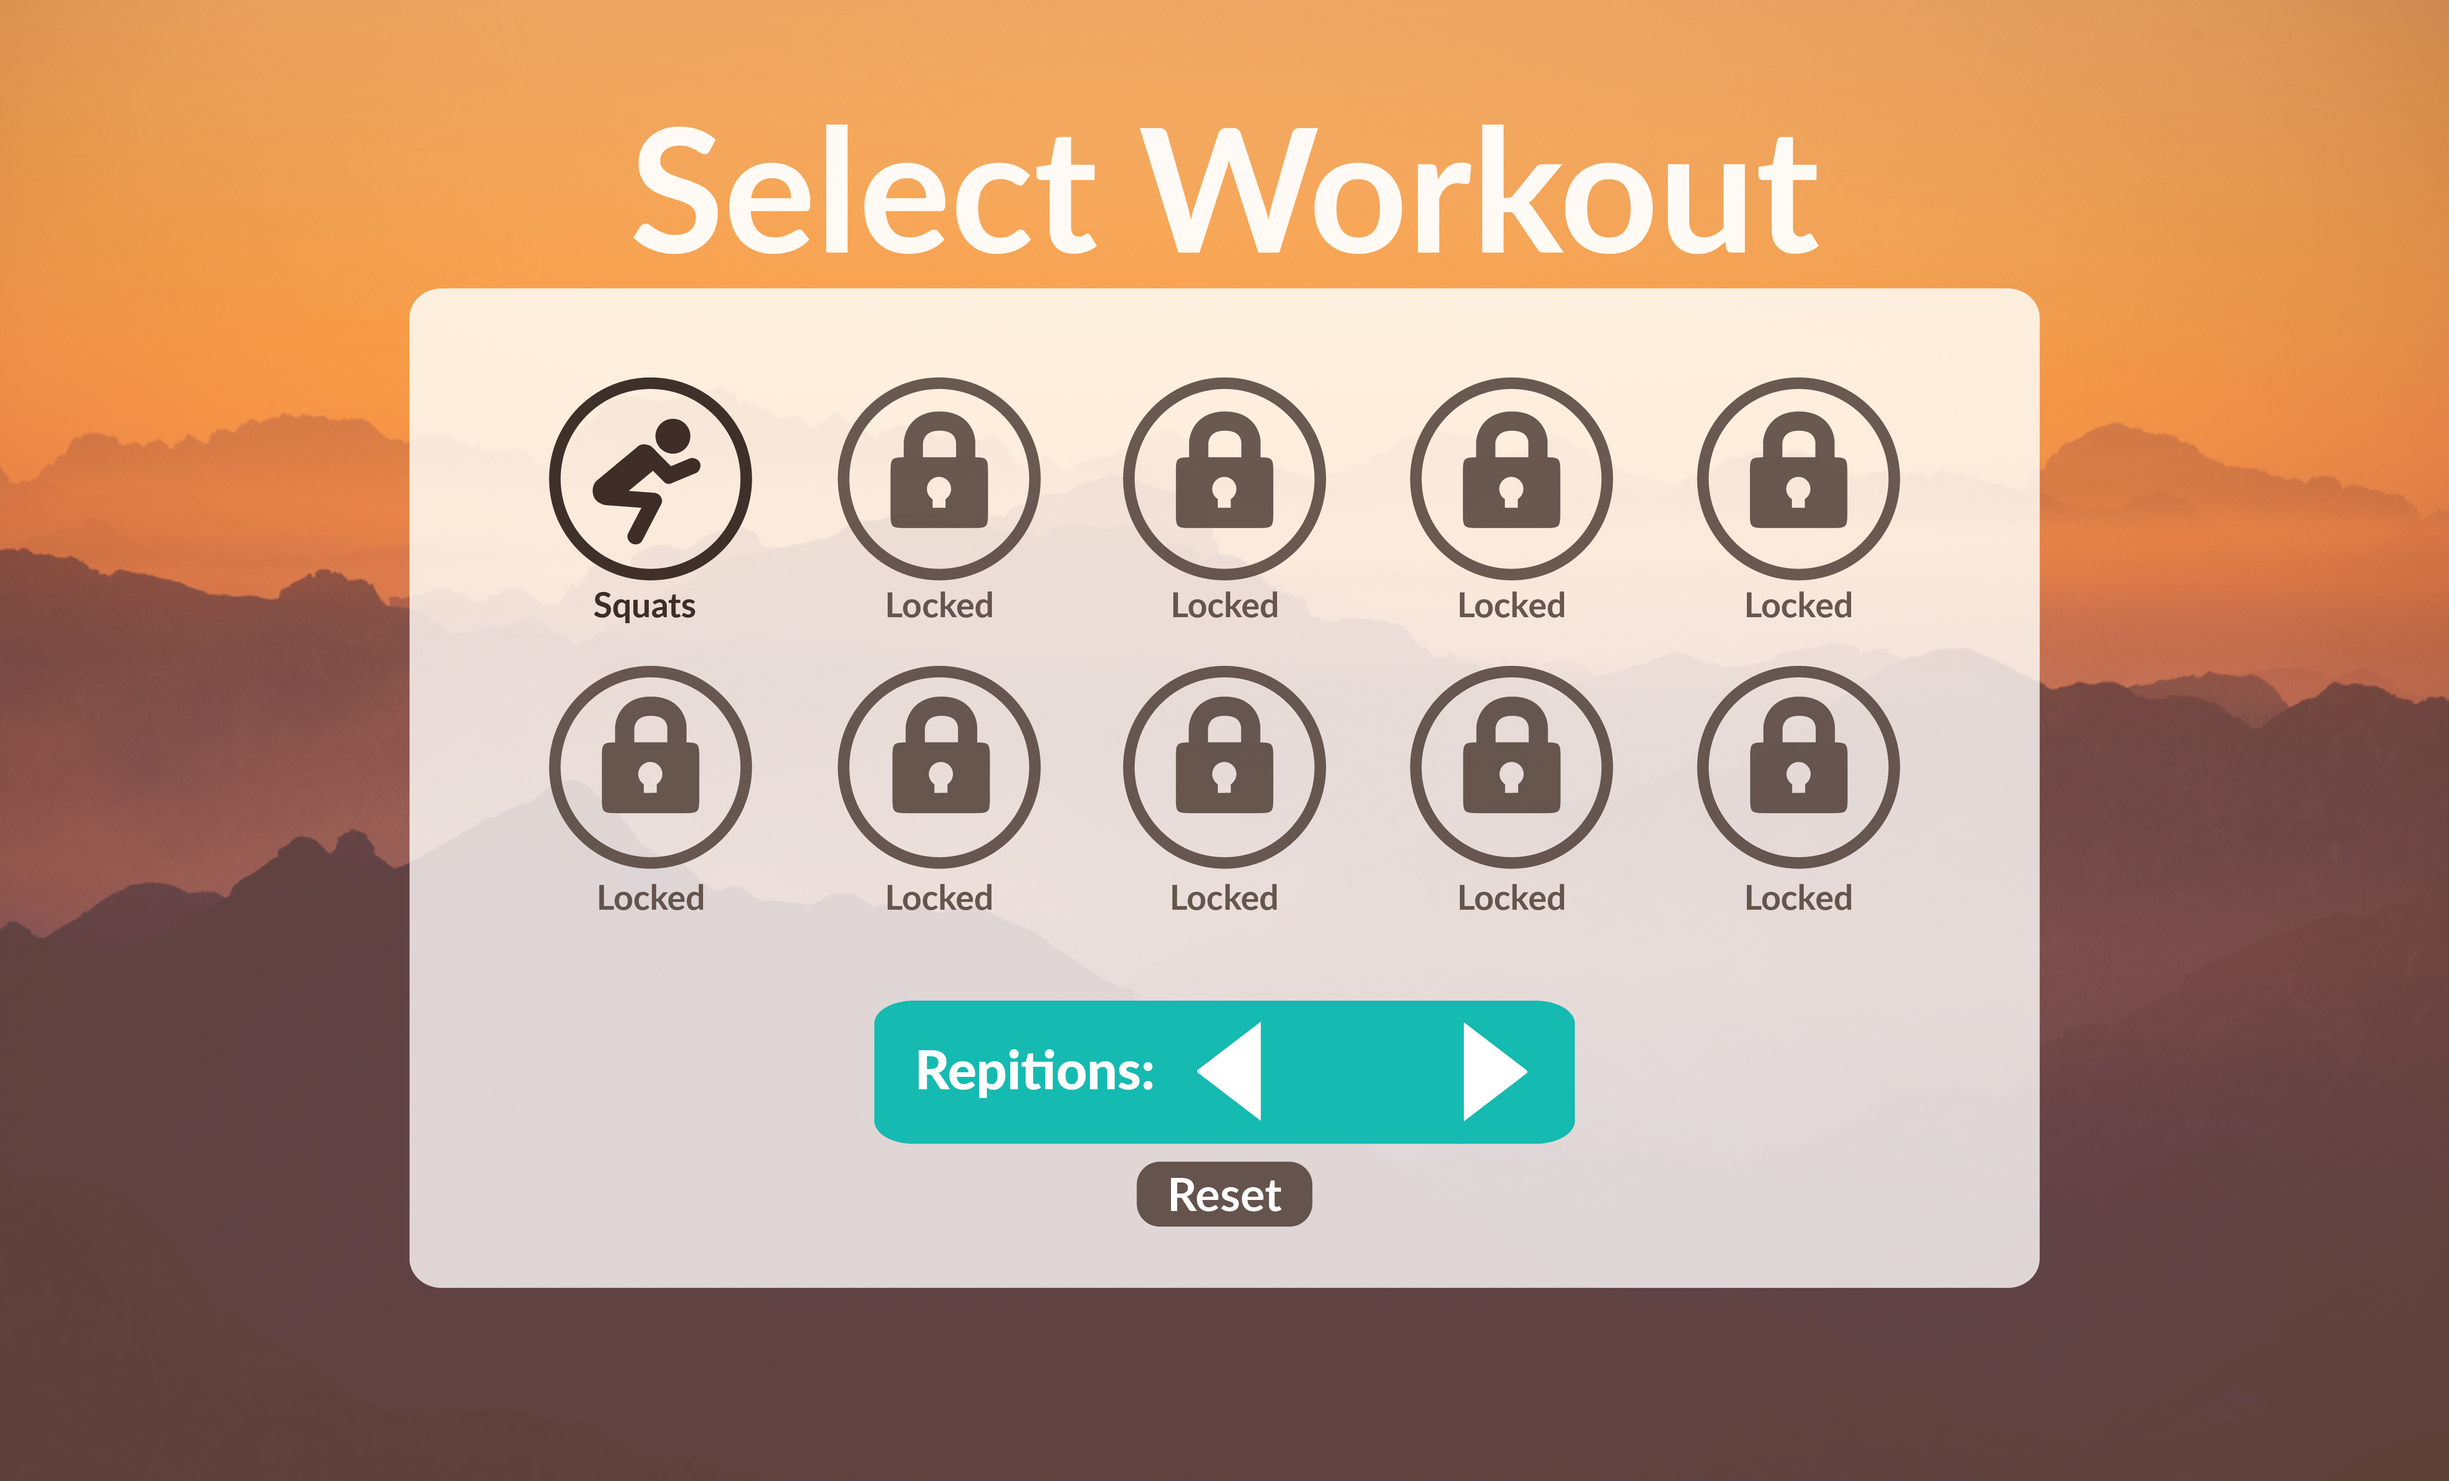
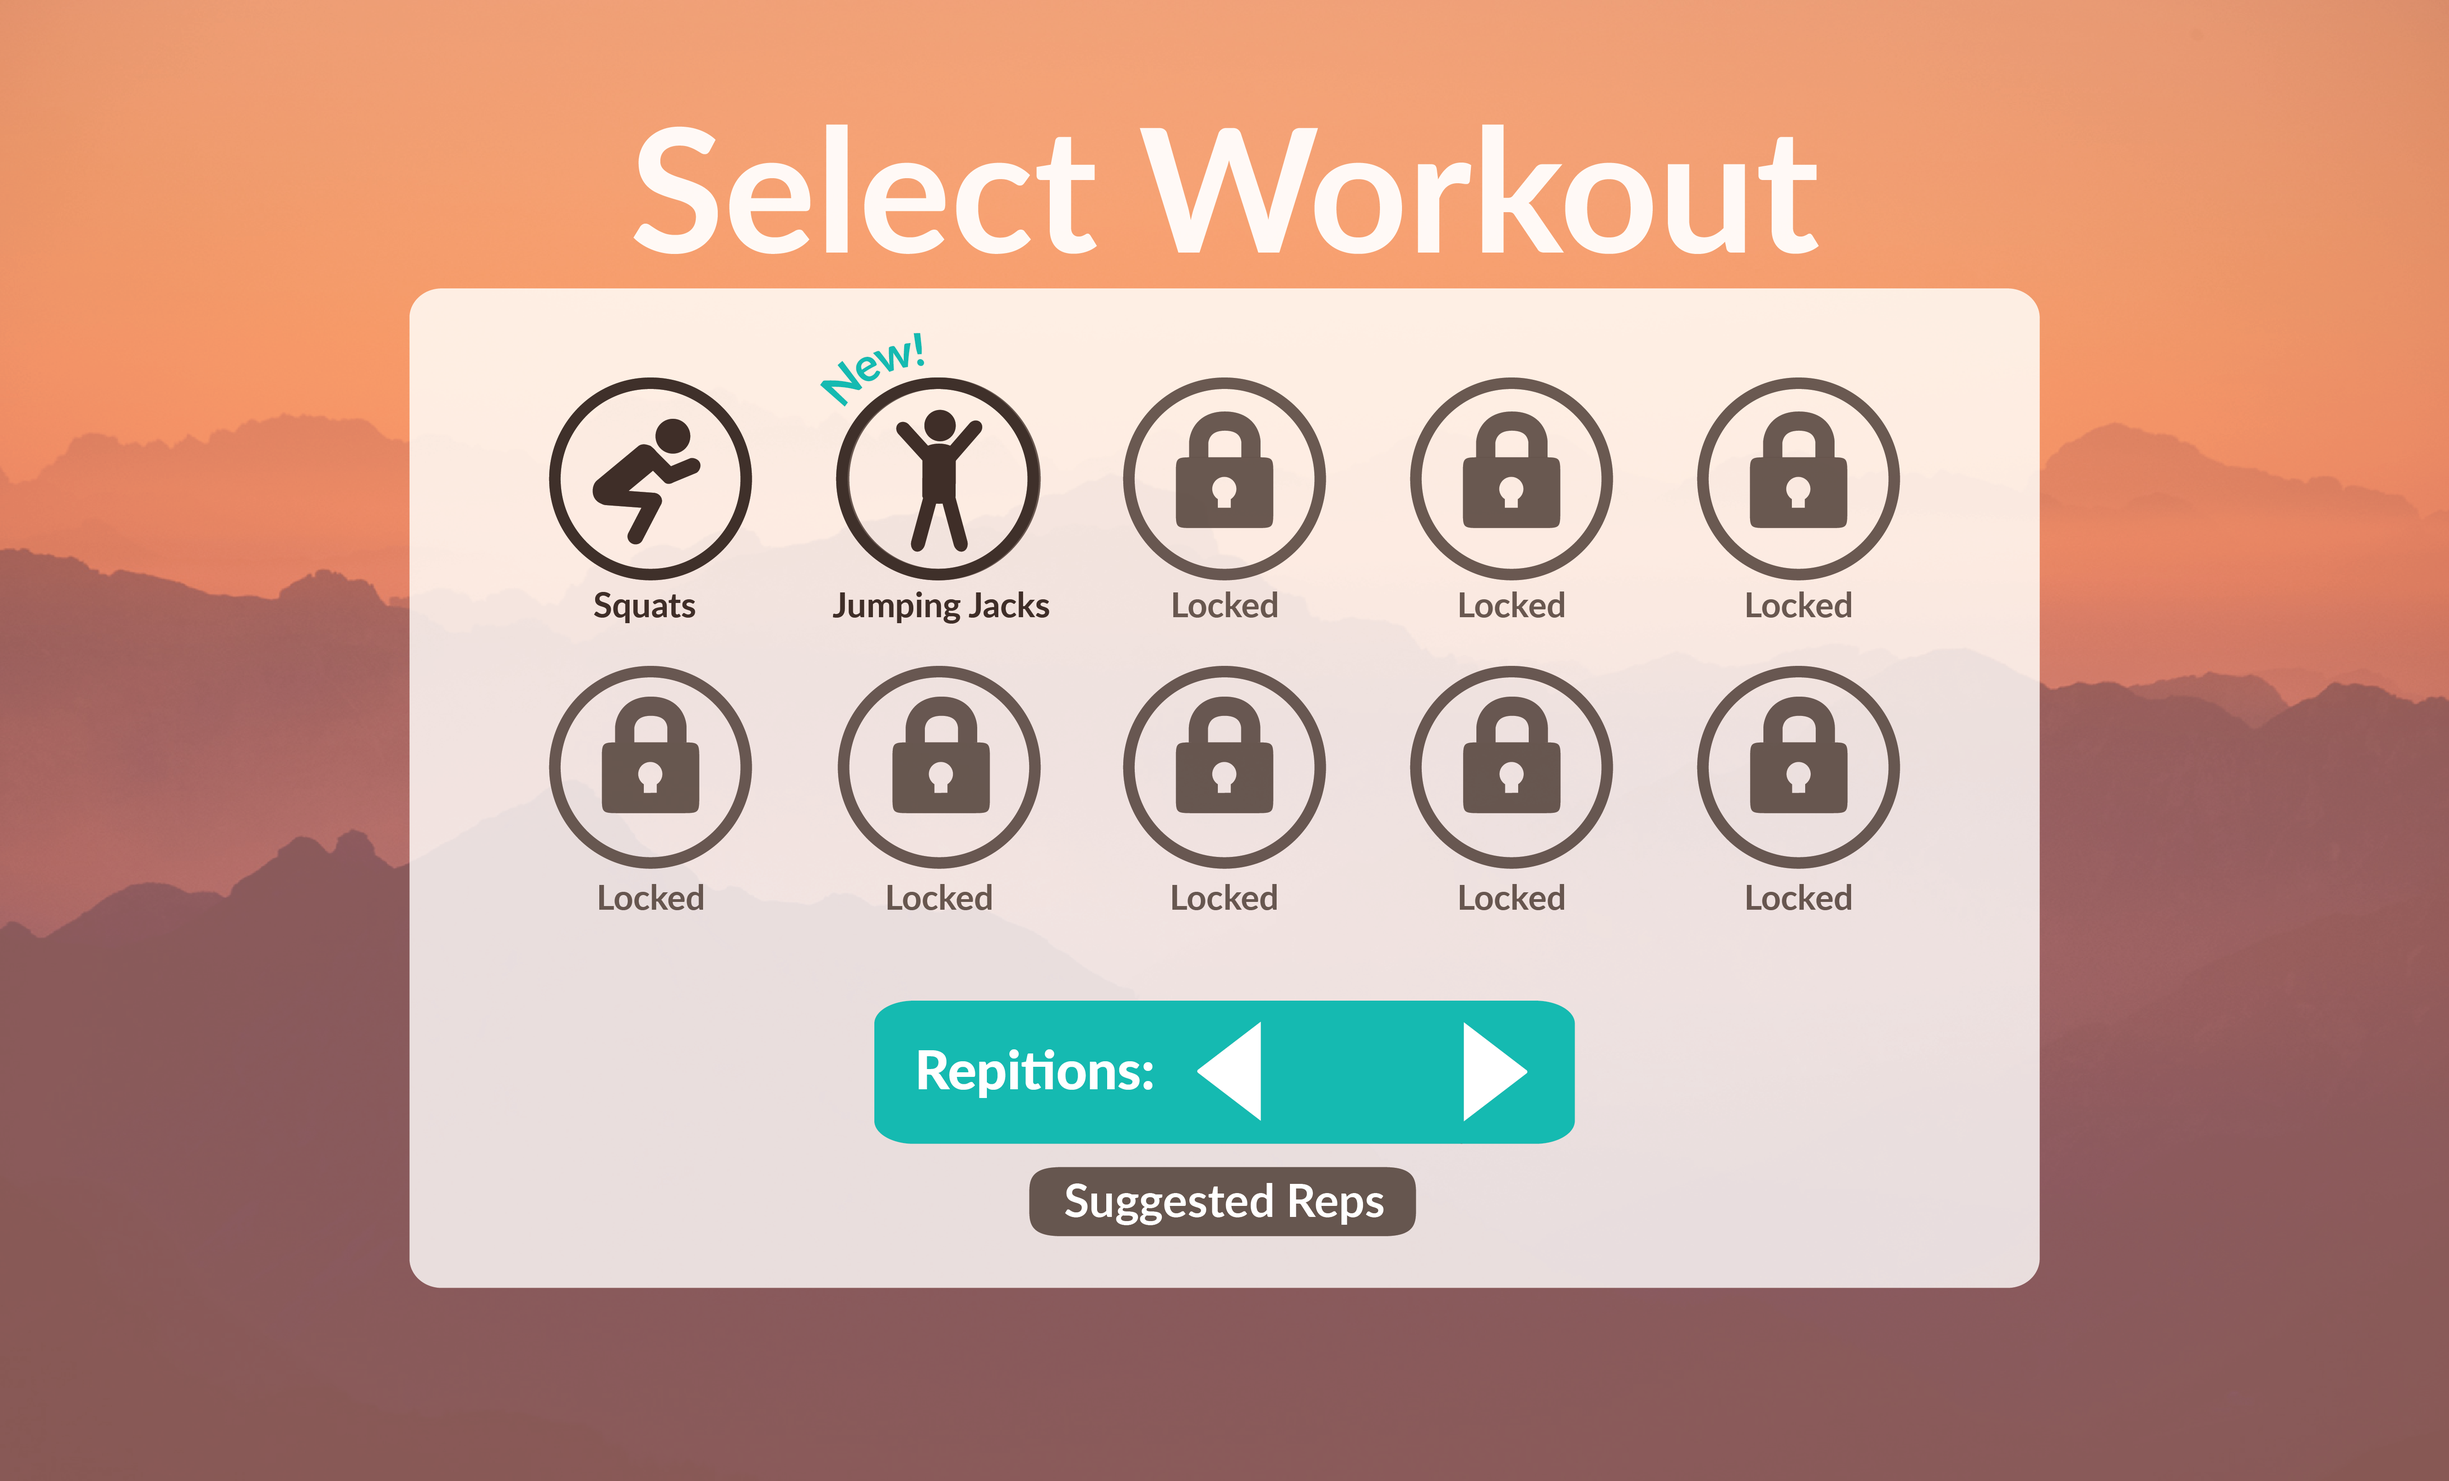
added jumping jacks

diff --git a/stage1/js/tutorial.js b/stage1/js/tutorial.js
@@ -3,19 +3,12 @@ const request = require('request');
 const url = require('url');
 const path = require('path');
 
-var numReps = 20;
-var needsRender = true;
-var mainWindow;
+var mainWindow = electron.remote.getGlobal('sharedObj').mainWindow;
 var canvasHeight;
 var canvasWidth;
-var stage;
 
 function setup() {
-    mainWindow = electron.remote.getGlobal('sharedObj').mainWindow;
-    stage = electron.remote.getGlobal('sharedObj').stage;
-    console.log(electron.remote.getGlobal('sharedObj').stage);
-    const size = mainWindow.getSize();
-    console.log(size);
+    const size = mainWindow.getSize()
     canvasWidth = size[0];
     canvasHeight = size[1];
     var canvas = createCanvas(canvasWidth, canvasHeight);
@@ -28,11 +21,10 @@ function draw() {
 
 document.addEventListener('keydown', event => {
     mainWindow.loadURL(url.format({
-        pathname: path.join(__dirname, '../find-friends.html'),
+        pathname: path.join(__dirname, '../solo-jj.html'),
         protocol: 'file:',
         slashes: true
     }));
-
 });
 
 exports.setup = setup;

diff --git a/stage1/js/solo-jj.js b/stage1/js/solo-jj.js
@@ -60,7 +60,6 @@ class Challenge {
         this.type = type;
         this.player1 = new Player(player1, type, player1Name, numReps);
         this.player2 = new Player(player2, type, player2Name, numReps);
-        this.player2.repsLeft += 8;
         this.numReps = numReps;
         this.timeLeft = timeLimit;
         this.needsRender = false;
@@ -146,7 +145,7 @@ class Challenge {
         textSize(64);
         textStyle('BOLD');
         fill(0, 170, 235);
-        text(this.numReps.toString(), 515, 195);
+        text(this.numReps.toString(), 390, 190);
     }
     renderTimeLeft() {
         textFont('sans-serif');
@@ -253,13 +252,13 @@ function setup() {
     var canvas = createCanvas(canvasWidth, canvasHeight);
     canvas.parent('canvas-container');
     challenge = new Challenge(
-        'squats',
+        'jj',
         'pink',
         'green',
         'You',
-        'Edmund19',
-        12,
-        45
+        'Squatch',
+        electron.remote.getGlobal('sharedObj').numReps,
+        120
     );
 
     function runTimer() {

diff --git a/stage1/js/select-workout.js b/stage1/js/select-workout.js
@@ -3,7 +3,7 @@ const request = require('request');
 const url = require('url');
 const path = require('path');
 
-var selectionAvailable = false;
+var selectionAvailable = true;
 var selectionSet = !selectionAvailable;
 var selection = 0;
 var numReps = 20;
@@ -95,8 +95,14 @@ document.addEventListener('keydown', event => {
             needsRender = true;
         } else {
             electron.remote.getGlobal('sharedObj').numReps = numReps;
+            var pathToOpen;
+            if (selection === 0) {
+                pathToOpen = 'solos-squats.html';
+            } else if (selection === 1) {
+                pathToOpen = 'solo-jj.html';
+            }
             mainWindow.loadURL(url.format({
-                pathname: path.join(__dirname, '../solo-squats.html'),
+                pathname: path.join(__dirname, '..', pathToOpen),
                 protocol: 'file:',
                 slashes: true
             }));

diff --git a/stage1/solo-jj.html b/stage1/solo-jj.html
@@ -1,11 +1,11 @@
 <html>
     <head>
-        <title>New Move Tutorial</title>
+        <title>Jumping Jacks</title>
         <style>
             body {
                 height: 774px;
                 width: 1280px;
-                background-image: url("img/youwin.png");
+                background-image: url("img/jj/background.png");
                 background-size: contain;
                 background-repeat: no-repeat;
                 margin: 0;
@@ -18,7 +18,7 @@
         </div>
         <script>
             require('../js/p5/p5.min.js')
-            const p5 = require('./js/tutorial.js');
+            const p5 = require('./js/solo-jj.js');
 
             var setup = p5.setup;
             var draw = p5.draw;

diff --git a/stage0/js/new-move.js b/stage0/js/new-move.js
@@ -27,11 +27,19 @@ function draw() {
 }
 
 document.addEventListener('keydown', event => {
-    mainWindow.loadURL(url.format({
-        pathname: path.join(__dirname, '../..', 'stage'+stage.toString(), 'progress.html'),
-        protocol: 'file:',
-        slashes: true
-    }));
+    var pathToOpen;
+    if (event.key === 'j') {
+        pathToOpen = 'progress.html';
+    } else if (event.key === 'k') {
+        pathToOpen = 'tutorial.html';
+    }
+    if (pathToOpen) {
+        mainWindow.loadURL(url.format({
+            pathname: path.join(__dirname, '../..', 'stage'+stage.toString(), pathToOpen),
+            protocol: 'file:',
+            slashes: true
+        }));
+    }
 });
 
 exports.setup = setup;

diff --git a/stage0/js/solo-squats.js b/stage0/js/solo-squats.js
@@ -81,7 +81,7 @@ class Challenge {
         this.requestInProgress = true;
         var self = this;
         // request('http://localhost:5000/game/state', (err, res, body) => {
-        request('http://myth14.stanford.edu:5000/game/state', (err, res, body) => {
+        request('http://myth3.stanford.edu:5000/game/state', (err, res, body) => {
             if (!err) {
                 body = JSON.parse(body);
                 if (self.player1.state !== body.player1State) {
@@ -258,7 +258,7 @@ function setup() {
         'You',
         'Squatch',
         electron.remote.getGlobal('sharedObj').numReps,
-        120
+        5
     );
 
     function runTimer() {

diff --git a/stage1/js/multiplay.js b/stage1/js/multiplay.js
@@ -82,7 +82,7 @@ class Challenge {
         this.requestInProgress = true;
         var self = this;
         // request('http://localhost:5000/game/state', (err, res, body) => {
-        request('http://myth14.stanford.edu:5000/game/state', (err, res, body) => {
+        request('http://myth3.stanford.edu:5000/game/state', (err, res, body) => {
             if (!err) {
                 body = JSON.parse(body);
                 if (self.player1.state !== body.player1State) {

diff --git a/stage1/js/solo-squats.js b/stage1/js/solo-squats.js
@@ -81,7 +81,7 @@ class Challenge {
         this.requestInProgress = true;
         var self = this;
         // request('http://localhost:5000/game/state', (err, res, body) => {
-        request('http://myth14.stanford.edu:5000/game/state', (err, res, body) => {
+        request('http://myth3.stanford.edu:5000/game/state', (err, res, body) => {
             if (!err) {
                 body = JSON.parse(body);
                 if (self.player1.state !== body.player1State) {

diff --git a/stage0/index.html b/stage0/index.html
@@ -40,7 +40,7 @@
 <body>
     <div id='menu-buttons'>
         <a href="select-workout.html">Solo Workout</a>
-        <a href="">Multiplayer</a>
+        <a href="multiplayer.html">Multiplayer</a>
         <a href="friends.html">Friends</a>
         <a href="progress.html">Progress</a>
         <a href="">Items <span>(Coming Soon!)</span></a>

diff --git a/stage0/js/return-to-friends.js b/stage0/js/return-to-friends.js
@@ -12,7 +12,6 @@ var stage;
 
 function setup() {
     mainWindow = electron.remote.getGlobal('sharedObj').mainWindow;
-    electron.remote.getGlobal('sharedObj').stage++;
     stage = electron.remote.getGlobal('sharedObj').stage;
     console.log(electron.remote.getGlobal('sharedObj').stage);
     const size = mainWindow.getSize();

diff --git a/stage1/js/return-to-find-friends.js b/stage1/js/return-to-find-friends.js
@@ -12,7 +12,6 @@ var stage;
 
 function setup() {
     mainWindow = electron.remote.getGlobal('sharedObj').mainWindow;
-    electron.remote.getGlobal('sharedObj').stage++;
     stage = electron.remote.getGlobal('sharedObj').stage;
     console.log(electron.remote.getGlobal('sharedObj').stage);
     const size = mainWindow.getSize();

diff --git a/stage1/js/return-to-friends.js b/stage1/js/return-to-friends.js
@@ -12,7 +12,6 @@ var stage;
 
 function setup() {
     mainWindow = electron.remote.getGlobal('sharedObj').mainWindow;
-    electron.remote.getGlobal('sharedObj').stage++;
     stage = electron.remote.getGlobal('sharedObj').stage;
     console.log(electron.remote.getGlobal('sharedObj').stage);
     const size = mainWindow.getSize();
